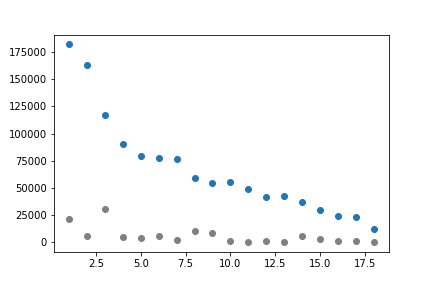
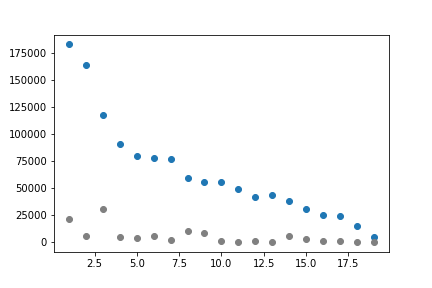
Update daily progress chart

diff --git a/completers.py b/completers.py
@@ -5,24 +5,25 @@ import matplotlib.pyplot as plt
 import re
 
 website="""
-18   12151    249  ****
-17   23228   1298  ******
-16   24090   1475  ******
-15   29806   3105  *******
-14   37302   6107  **********
-13   42772    715  **********
-12   41383   1598  **********
-11   49306    224  ***********
-10   55516   1433  ************
- 9   54968   8778  *************
- 8   59138  10618  ***************
- 7   76223   1953  ****************
- 6   77399   5968  ******************
- 5   79240   3869  *****************
- 4   90260   5052  *******************
- 3  116806  31110  ******************************
- 2  162950   5994  ***********************************
- 1  182057  21311  *****************************************
+19    5178    308  ***
+18   15144    227  ****
+17   24321   1296  ******
+16   24947   1480  ******
+15   30485   3074  *******
+14   37835   6115  **********
+13   43298    724  **********
+12   41820   1611  **********
+11   49747    228  ***********
+10   55992   1452  ************
+ 9   55380   8852  *************
+ 8   59568  10681  ***************
+ 7   76734   1982  *****************
+ 6   77900   5972  ******************
+ 5   79709   3908  *****************
+ 4   90765   5088  *******************
+ 3  117405  31235  ******************************
+ 2  163700   6015  ***********************************
+ 1  182828  21386  *****************************************
 """
 a = website.split('\n')
 a.reverse()
